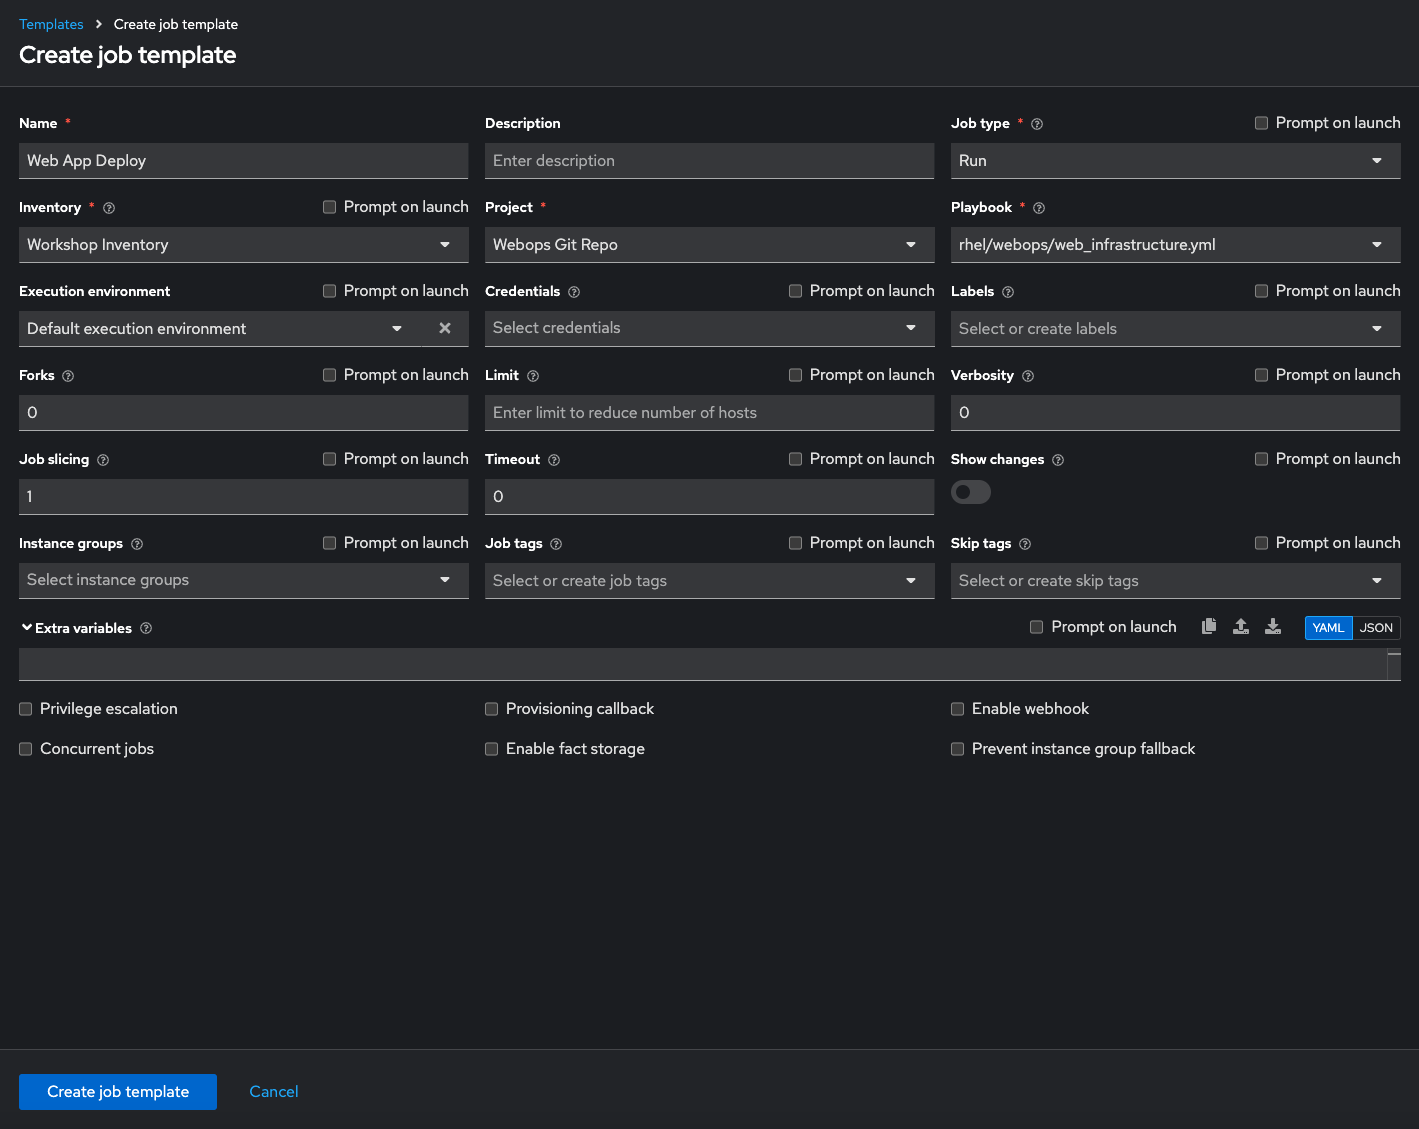
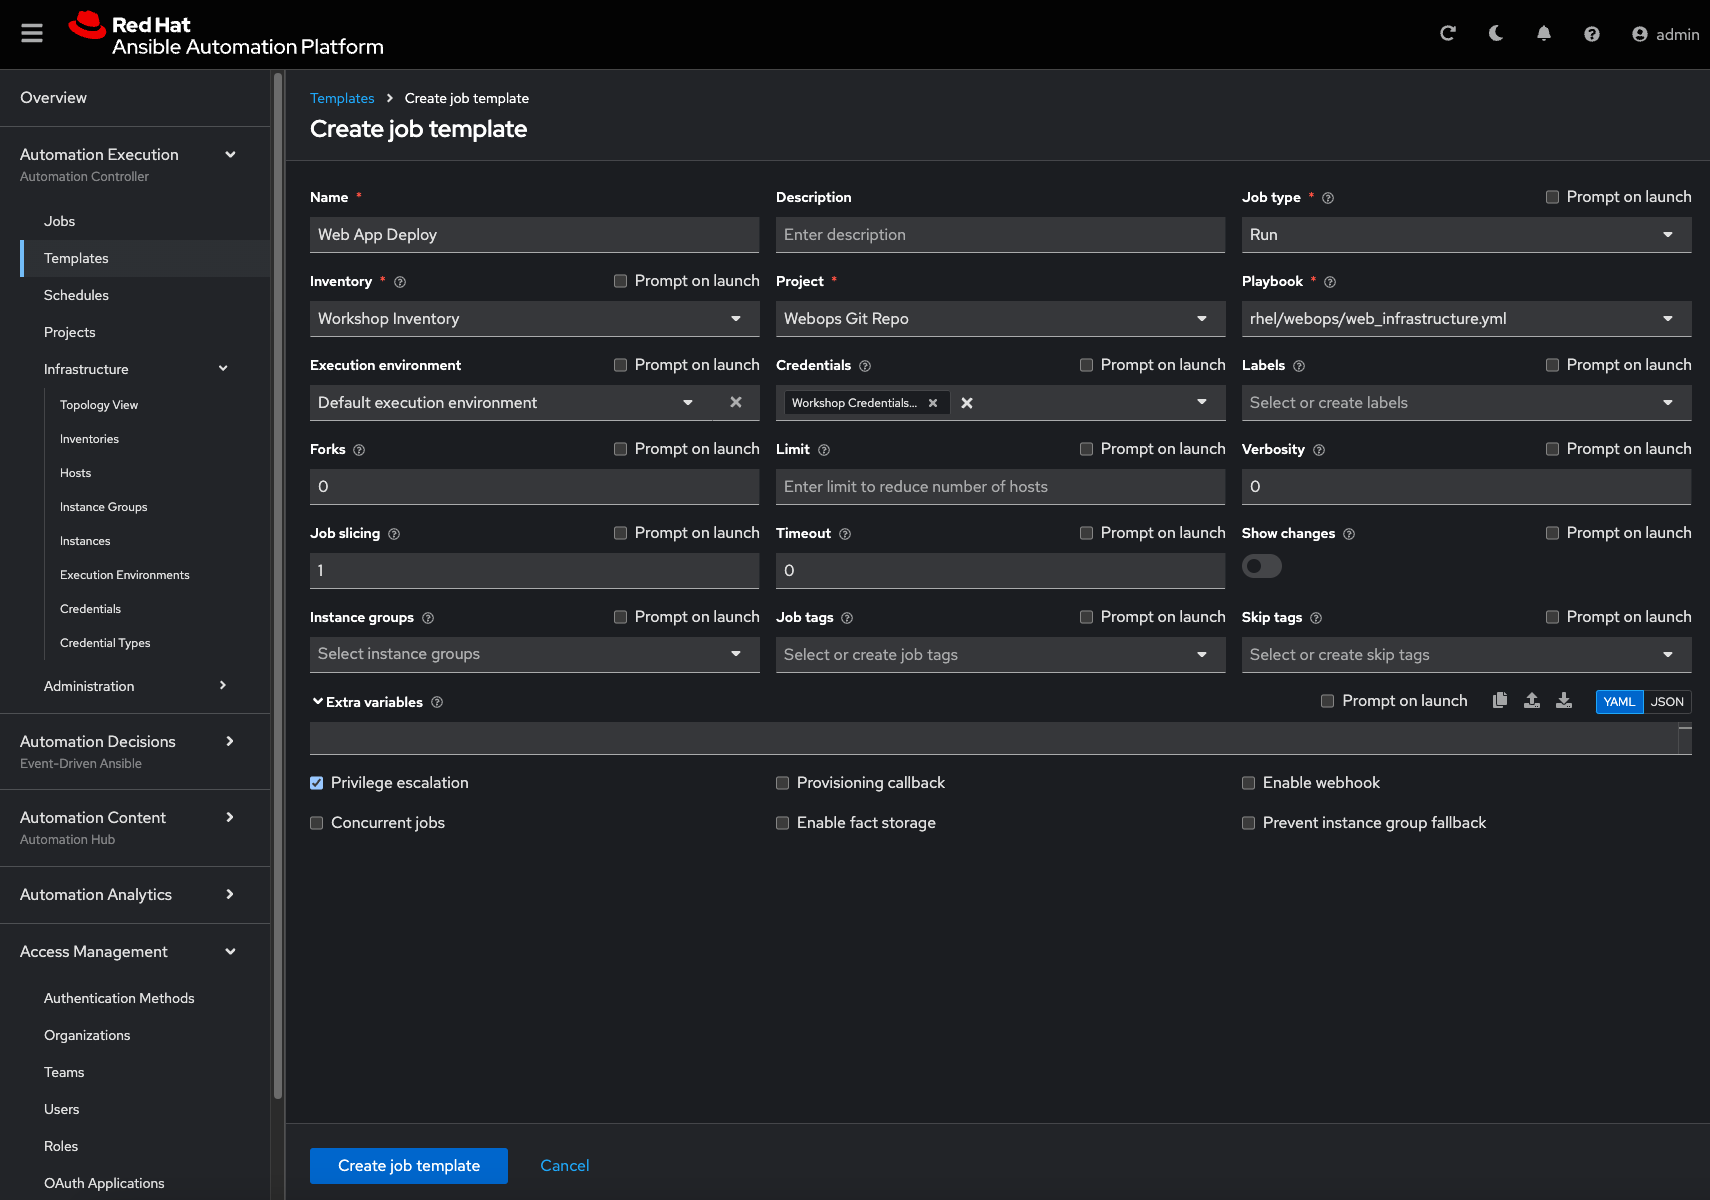
adding new content and fixing old content

diff --git a/exercises/ansible_rhel/2.3-projects/README.md b/exercises/ansible_rhel/2.3-projects/README.md
@@ -71,7 +71,7 @@ A playbook to install the Apache web server has already been committed to the di
 
 > **Tip**
 >
-> Note the difference from other playbooks you might have written\! Most importantly there is no `become` and `hosts` is set to `all`.
+> Note the difference from other playbooks you might have written\! Most importantly there is no `become` and `hosts` is set to `web`.
 
 To configure and use this repository as a **Source Control Management (SCM)** system in automation controller you have to create a **Project** that uses the repository
 
@@ -119,16 +119,19 @@ To configure and use this repository as a **Source Control Management (SCM)** sy
    </tr>
  </table>
 
-* Click **SAVE**
+* Click **Create project**
 
 
-The new project will be synced automatically after creation. But you can also do this manually: Sync the Project again with the Git repository by going to the **Projects** view and clicking the circular arrow **Sync Project** icon to the right of the Project.
+The new project will be synced automatically after creation. But you can also do this manually: Sync the Project again by selecting the 'Sync project' blue button.
 
-After starting the sync job, go to the **Jobs** view: there is a new job for the update of the Git repository.
+![Project Sync](images/project_sync.png)
+
+
+After starting the sync job, go to the **Jobs** view, and you'll find the job doing the project update.
 
 ### Create a Job Template and Run a Job
 
-A job template is a definition and set of parameters for running an Ansible job. Job templates are useful to execute the same job many times. So before running an Ansible **Job** from automation controller you must create a **Job Template** that pulls together:
+A job template allows you to run an automation job. In order to run any type of automation, a job template must be created. A job template consists of knowning the following information:
 
 * **Inventory**: On what hosts should the job run?
 
@@ -136,13 +139,13 @@ A job template is a definition and set of parameters for running an Ansible job.
 
 * **Project**: Where is the playbook?
 
-* **What** playbook to use?
+* **Playbook**: What playbook to use?
 
-Okay, let’s just do that: Go to the **Automation Execution -> Templates** view,click the **Create template** button and choose **Create job template**.
+To create a Job Template, go to the **Automation Execution -> Templates** view,click the **Create template** button and choose **Create job template**.
 
 > **Tip**
 >
-> Remember that you can often click on magnfying glasses to get an overview of options to pick to fill in fields.
+> Remember that you can often click on the question mark with a circle to get more details about the field.
 
  <table>
    <tr>
@@ -166,12 +169,12 @@ Okay, let’s just do that: Go to the **Automation Execution -> Templates** view
      <td>Workshop Project</td>
    </tr>
    <tr>
-     <td>Execution Environment</td>
-     <td>Default execution environment</td>
-   </tr>
-   <tr>
      <td>Playbook</td>
      <td><code>rhel/apache/apache_install.yml</code></td>
+   </tr>
+   <tr>
+     <td>Execution Environment</td>
+     <td>Default execution environment</td>
    </tr>
    <tr>
      <td>Credentials</td>
@@ -187,12 +190,12 @@ Okay, let’s just do that: Go to the **Automation Execution -> Templates** view
    </tr>
  </table>
 
-* Click **Save**
+* Click **Create job template**
 
-You can start the job by directly clicking the blue **Launch template** button, or by clicking on the rocket in the Job Templates overview. After launching the Job Template, you are automatically brought to the job overview where you can follow the playbook execution in real time:
+You can start the job by directly clicking the blue **Launch template** button, or by clicking on the rocket in the Job Templates overview. After launching the Job Template, you are automatically brought to the job overview where you can follow the playbook execution in real time.
 
-Job Details
-![job details](images/job_details.png)
+Template Details
+![template details](images/template_detail.png)
 
 Job Run
 ![job_run](images/job_run.png)
@@ -228,13 +231,17 @@ You have already been through all the steps needed, so try this for yourself.
 
 * Go to **Automation Execution → Infrastructure →  Inventories** → **Workshop Inventory**
 
-* In the **Automation Execution → Infrastructure → Inventories → **Workshop Inventory**, select the **Hosts** tab and select `node1`, `node2`, `node3` and click **Run Command**
+* In the **Automation Execution → Infrastructure → Inventories → Workshop Inventory**, select the **Hosts** tab and select `node1`, `node2`, `node3` and click **Run Command**
 
 Within the **Details** window, select **Module** `command`, in **Arguments** type `systemctl status httpd` and click **Next**.
 
 Within the **Execution Environment** window, select **Default execution environment** and click **Next**.
 
-Within the **Credential** window, select **Workshop Credential** and click **Launch**.
+Within the **Credential** window, select **Workshop Credentials** and click **Next**.
+
+Review your inputs and click **Finish**.
+
+Verify that the output result is as expected.
 
 > **Tip**
 >

diff --git a/exercises/ansible_rhel/2.4-surveys/README.md b/exercises/ansible_rhel/2.4-surveys/README.md
@@ -62,13 +62,13 @@ Now, let's create a new Template that includes a survey.
 | Job Type                    | Run                             |
 | Inventory                   | Workshop Inventory              |
 | Project                     | Workshop Project                |
-| Execution Environment        | Default execution environment   |
 | Playbook                    | `rhel/apache/apache_role_install.yml` |
+| Execution Environment        | Default execution environment   |
 | Credentials                 | Workshop Credential             |
 | Limit                       | web                             |
 | Options                     | Privilege Escalation            |
 
-3. Click **Save**.
+3. Click **Create job template**.
 
 ![template details](images/template_details.png)
 
@@ -88,7 +88,7 @@ Now, let's create a new Template that includes a survey.
 
 ![Survey Q1](images/survey_q1.png)
 
-3. Click **Save**.
+3. Click **Create survey question**.
 4. Click **Create survey question** to create a second survey question:
 
 | Parameter                  | Value           |
@@ -99,7 +99,7 @@ Now, let's create a new Template that includes a survey.
 
 ![Survey Q2](images/survey_q2.png)
 
-5. Click **Save**.
+5. Click **Create survey question**.
 6. Enable the survey by toggling the **Survey disabled** button to the on positon.
 
 ### Launch the Template
@@ -114,14 +114,22 @@ Before the job starts, the survey will prompt for **First Line** and **Second Li
 
 Once the job completes, verify the Apache homepage by running the following `curl` command in the SSH console on the control host:
 
-```bash
-$ curl http://node1
-<body>
-<h1>Apache is running fine</h1>
-<h1>This is survey field "First Line": line one</h1>
-<h1>This is survey field "Second Line": line two</h1>
-</body>
-```
+Go to Automation Execution → Infrastructure → Inventories → Workshop Inventory
+
+In the **Automation Execution → Infrastructure → Inventories → Workshop Inventory, select the Hosts tab and select node1 and click Run Command
+
+Within the Details window, select Module command, in Arguments type `curl http://node1` and click Next.
+
+Within the Execution Environment window, select Default execution environment and click Next.
+
+Within the Credential window, select Workshop Credentials and click Next.
+
+Review your inputs and click Finish.
+
+Verify that the output result is as expected.
+
+
+![Run Command](images/run_command.png)
 
 ---
 **Navigation**

diff --git a/exercises/ansible_rhel/2.6-workflows/README.md b/exercises/ansible_rhel/2.6-workflows/README.md
@@ -166,6 +166,14 @@ Within **Automation Execution** -> **Templates** -> **Create template** -> **Cre
     <td>Execution Environment</td>
     <td>Default execution environment</td>
   </tr>
+  <tr>
+    <td>Credentials</td>
+    <td>Workshop Credentials</td>
+  </tr>
+  <tr>
+    <td>Options</td>
+    <td>tasks need to run as root so check **Privilege Escalation**</td>
+  </tr>
 </table>
 
 ![create_template_webops](images/create_template_webops.png)
@@ -214,14 +222,21 @@ Within the **Deploy Webapp Server** template, click **Launch template**.
 
 ![launch_template](images/launch_template.png)
 
-Once the workflow completes, verify the results by checking the job details. Run the following command on the control host to confirm the deployment:
+Once the workflow completes, verify the result.
 
-```bash
-curl http://nodeX/nodejs
-Hello World
-```
+Go to Automation Execution → Infrastructure → Inventories → Workshop Inventory
 
-NOTE: `X` should be replaced with the appropriate number of the node you are checking.
+In the **Automation Execution → Infrastructure → Inventories → Workshop Inventory, select the Hosts tab and select node1 and click Run Command
+
+Within the Details window, select Module command, in Arguments type `curl http://node1/nodejs` and click Next.
+
+Within the Execution Environment window, select Default execution environment and click Next.
+
+Within the Credential window, select Workshop Credentials and click Next.
+
+Review your inputs and click Finish.
+
+Verify that the output result shows `Hello World`
 
 
 ---

diff --git a/exercises/ansible_rhel/2.5-rbac/README.md b/exercises/ansible_rhel/2.5-rbac/README.md
@@ -45,7 +45,6 @@ Let's create a user:
    | Last Name       | Web             |
    | Email           | wweb@example.com |
    | Organization    | Default         |
-   | User Type       | Normal User     |
 
 4. Click **Create user**.
 
@@ -95,13 +94,23 @@ Now, log out and log in again as the `wweb` user.
 
 1. Navigate to **Templates**. You should only see the `Create index.html` template listed.
 2. Run the job by clicking the rocket icon. Enter the required values for the survey questions and launch the job.
-3. After completion, check the **Jobs** view for the expected changes.
 
-To verify the result, use `curl` on the control host to check the webserver content on `node1`:
+Once the job completes, verify the result by relogging back in as an admin user to the Ansible Automation Platform dashboard.
 
-```bash
-#> curl http://node1
-```
+Go to Automation Execution → Infrastructure → Inventories → Workshop Inventory
+
+In the **Automation Execution → Infrastructure → Inventories → Workshop Inventory, select the Hosts tab and select node1 and click Run Command
+
+Within the Details window, select Module command, in Arguments type `curl http://node1` and click Next.
+
+Within the Execution Environment window, select Default execution environment and click Next.
+
+Within the Credential window, select Workshop Credentials and click Next.
+
+Review your inputs and click Finish.
+
+Verify that the output result is as expected. 
+
 
 Just recall what you have just done: You enabled a restricted user to run an Ansible playbook
 

diff --git a/exercises/ansible_rhel/2.7-wrap/README.md b/exercises/ansible_rhel/2.7-wrap/README.md
@@ -107,6 +107,8 @@ Within the **Details** tab of the `Webserver` group, click the **Hosts** tab, cl
 Within **Automation Execution -> Infrastructure -> Inventories**, select the
 `Workshop` Inventory. Click on the **Hosts** tab and click on `node2`.  Click on **Edit host** and add the `stage: prod` variable in the **Variables** window. This overrides the inventory variable due to order of operations of how the variables are accessed during playbook execution.
 
+![edit host](images/edit_host.png)
+
 
 Within the **Variables** textbox define a variable labeled `stage` with the value of `prod` and click **Save host**.
 
@@ -163,6 +165,8 @@ Within **Automation Execution -> Templates**, select the **Create template -> Cr
 
 Click **Create job template**.
 
+![web_content_job_template](images/web_content_job_template.png)
+
 Run the template by clicking the **Launch template** button.
 
 
@@ -183,12 +187,12 @@ This time we use the power of Ansible to check the results: execute uri to get t
 
   tasks:
     - name: Check that you can connect (GET) to a page and it returns a status 200
-      uri:
+      ansible.builtin.uri:
         url: "http://{{ ansible_host }}"
         return_content: yes
       register: content
 
-    - debug:
+    - ansible.builtin.debug:
        var: content.content
 ```
 

diff --git a/exercises/ansible_rhel/2.2-cred/README.md b/exercises/ansible_rhel/2.2-cred/README.md
@@ -21,14 +21,9 @@ The _Workshop Inventory_ is preloaded in your lab environment, representing a st
 
 - **Accessing the Inventory:** Navigate to **Automation Execution → Infrastructure → Inventories** in the web UI, and select _Workshop Inventory_.
 - **Viewing Hosts:** Navigate to **Automation Execution → Infrastructure → Hosts** to see the predefined hosts, similar to those in a traditional Ansible inventory file.
-- 
 
-```yaml
-[web_servers]
-web1 ansible_host=22.33.44.55
-web2 ansible_host=33.44.55.66
-...
-```
+![Hosts](images/hosts.png)
+
 
 ### 3. Understanding Machine Credentials
 Machine credentials are essential for establishing secure SSH connections to managed hosts.
